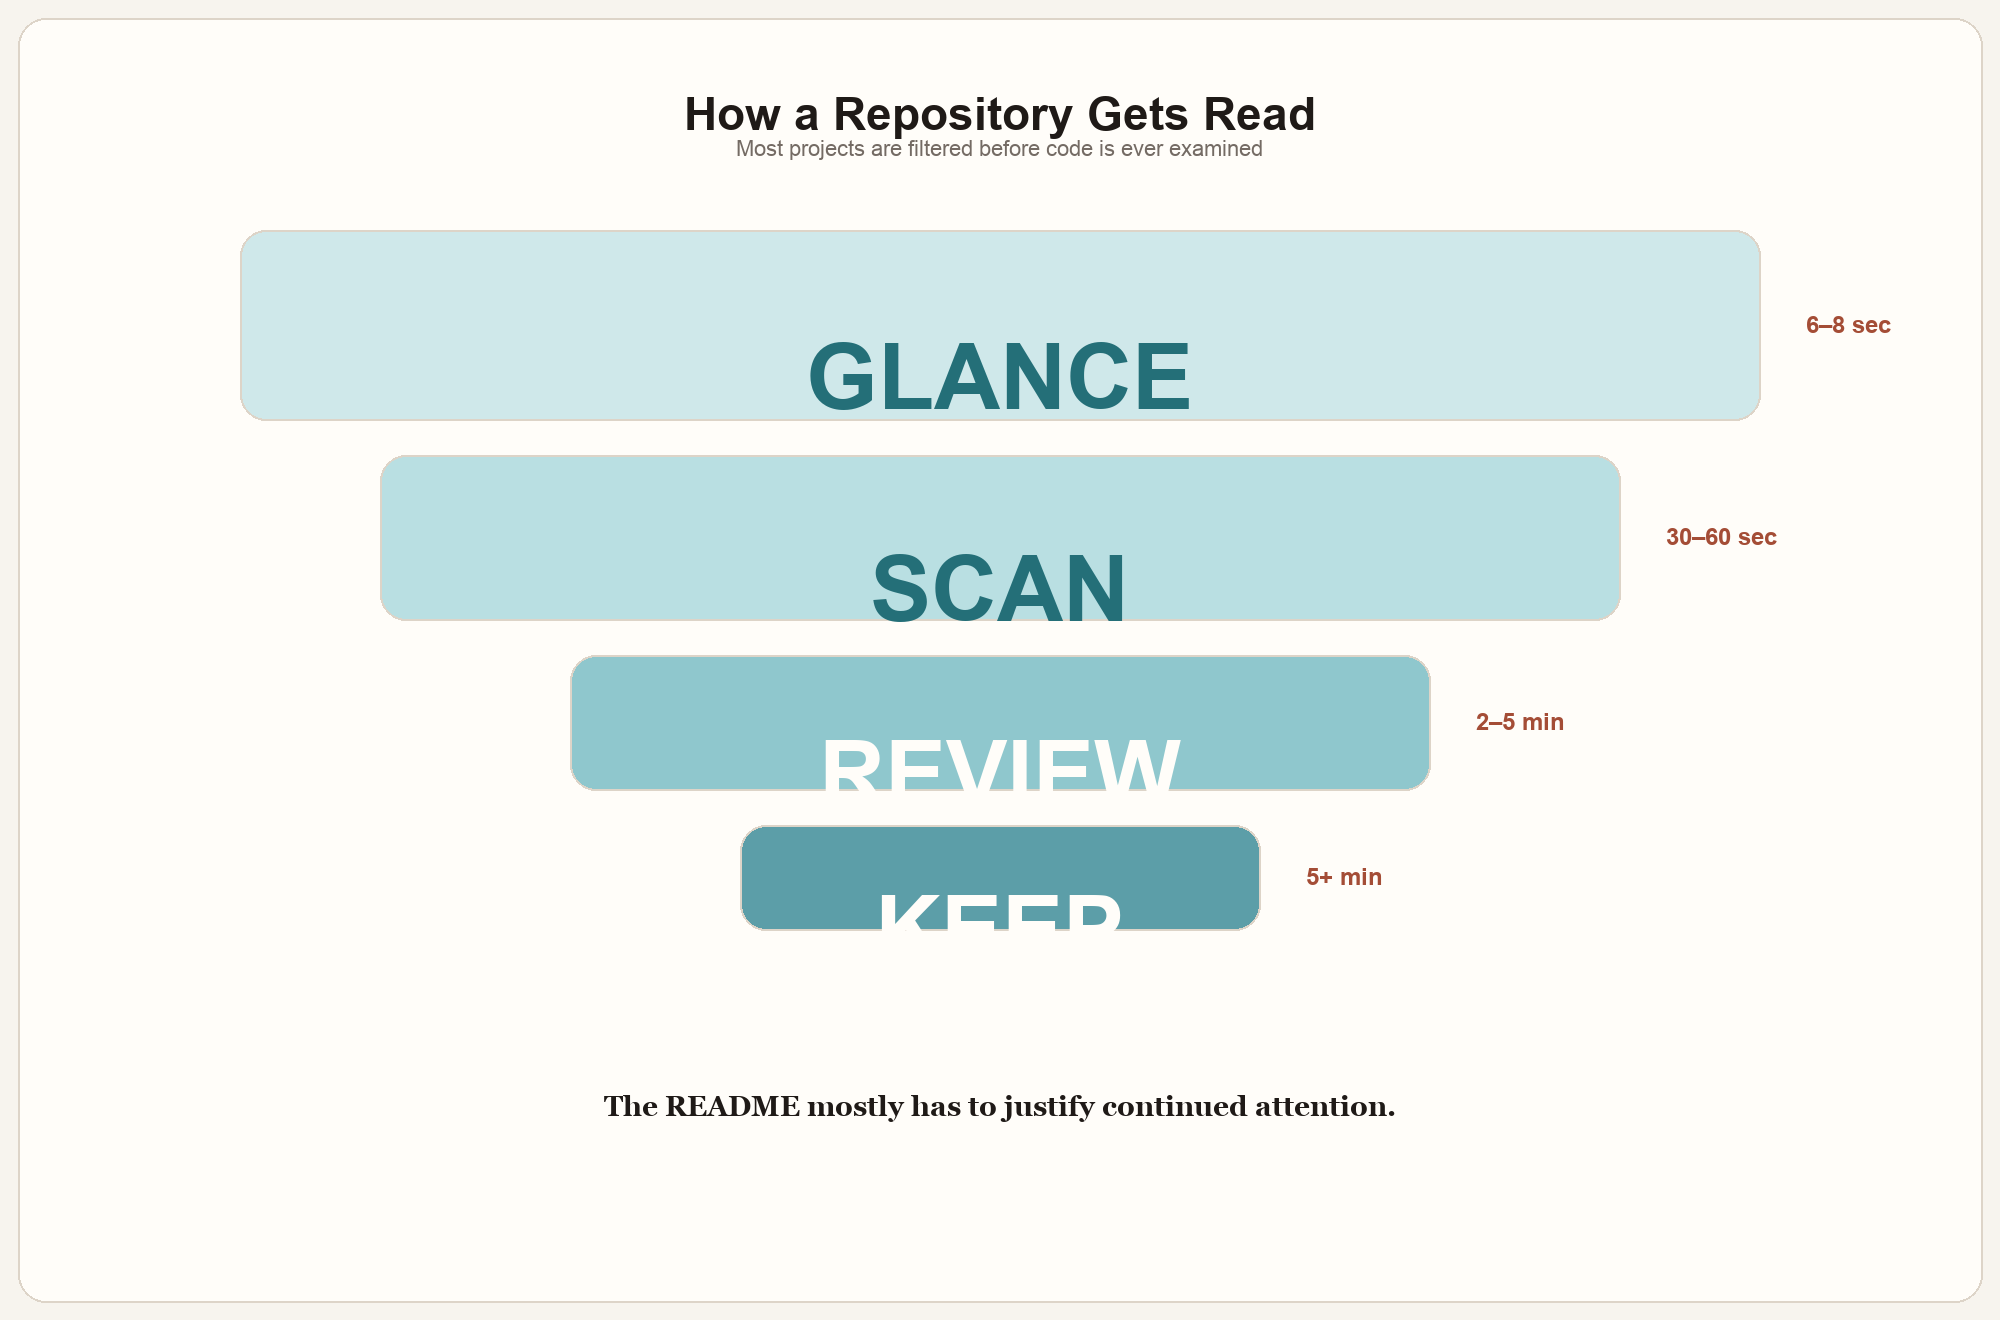
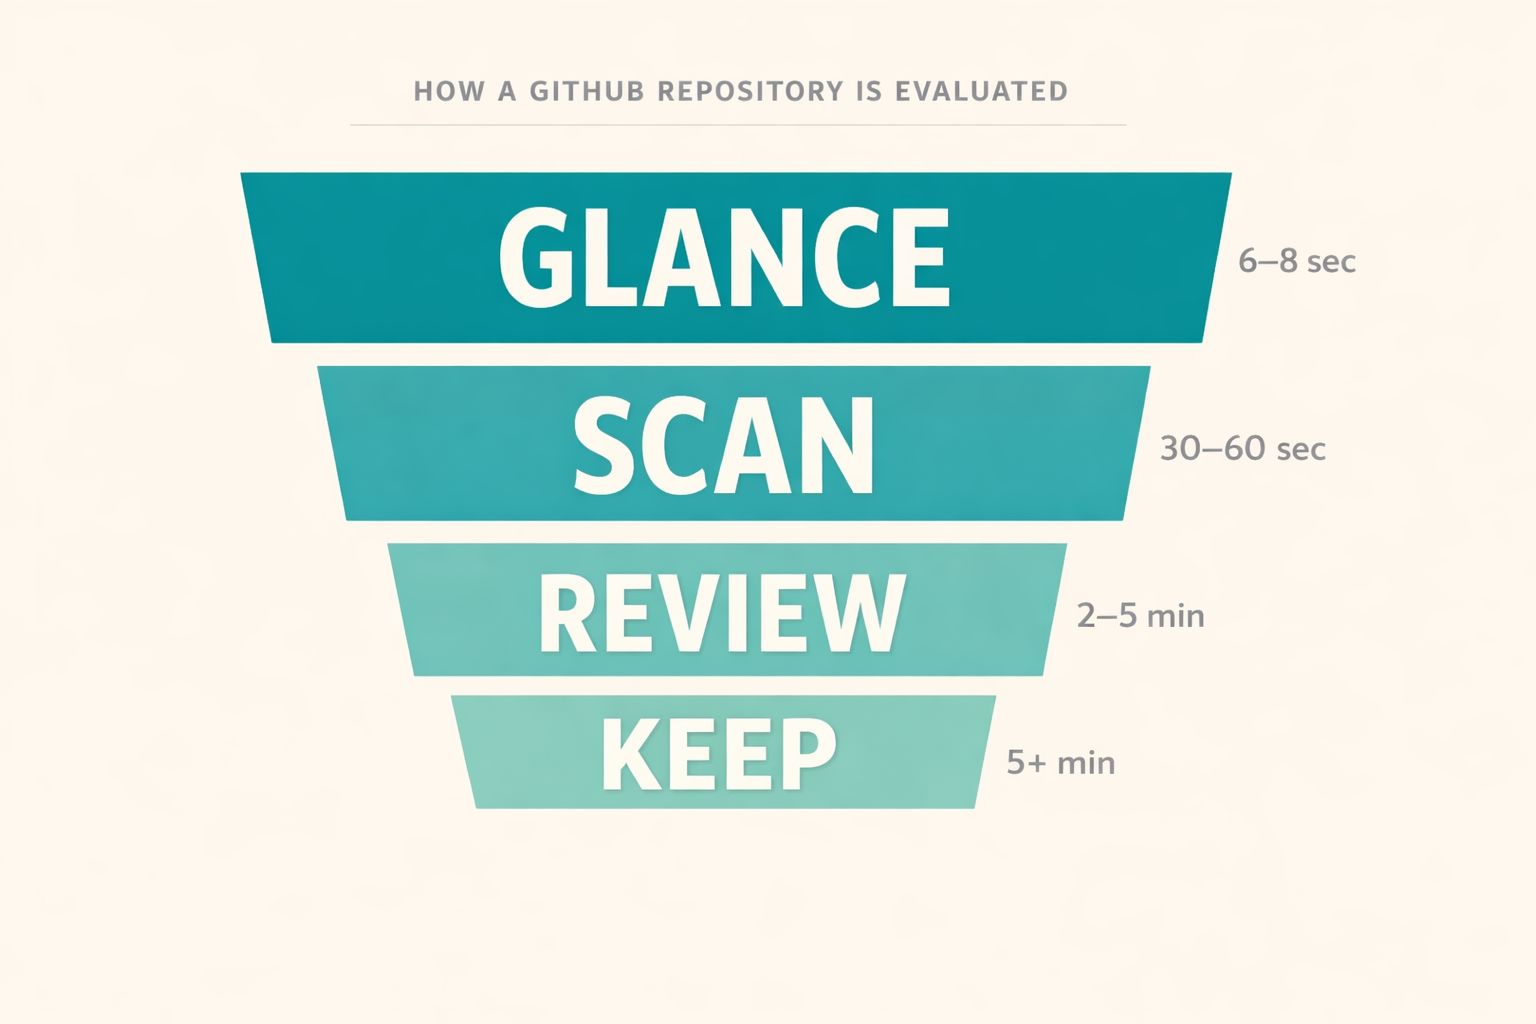
docs: clean readme layout and refresh visuals

diff --git a/README.md b/README.md
@@ -29,18 +29,6 @@
   <a href="./docs/sources.en.md">Sources</a>
 </p>
 
-![How a GitHub repository is evaluated](./assets/evaluation-funnel.png)
-
-## Quick Nav
-
-- [Research report](./docs/research-report.en.md)
-- [Visual index](./docs/index.md)
-- [Video guide](./docs/video-guide.en.md)
-- [README writer skill](./docs/skill-readme-writer.en.md)
-- [Video demo skill](./docs/skill-video-demo.en.md)
-- [README signals](./docs/readme-signals.en.md)
-- [Sources](./docs/sources.en.md)
-
 ## The Landing Page
 
 | Entry point | Use it for | File |
@@ -77,23 +65,29 @@ This repository exists to do that work once and keep the result practical.
 
 These three visuals compress the core argument of the repo:
 
-### 1. Repositories are filtered before code is read
+<table>
+  <tr>
+    <td width="50%">
+      <img src="./assets/evaluation-funnel.png" alt="Evaluation funnel" />
+      <p><strong>Repositories are filtered before code is read.</strong></p>
+      <p>Adapted from JSGuruJobs, HR Dive, and hiring-manager discussions on Reddit. Timings are illustrative.</p>
+    </td>
+    <td width="50%">
+      <img src="./assets/signal-strength.png" alt="Signal strength" />
+      <p><strong>Not every hiring signal carries the same weight.</strong></p>
+      <p>Synthesized from JSGuruJobs, OneNine, and hiring-manager discussions. Signal strength is interpretive, not quantitative.</p>
+    </td>
+  </tr>
+</table>
 
-![Evaluation funnel](./assets/evaluation-funnel.png)
+<p align="center">
+  <img src="./assets/clone-spectrum.png" alt="Clone spectrum" width="100%" />
+</p>
 
-Source: adapted from JSGuruJobs, HR Dive, and hiring-manager discussions on Reddit. Timings are illustrative.
-
-### 2. Not every hiring signal carries the same weight
-
-![Signal strength](./assets/signal-strength.png)
-
-Source: synthesized from JSGuruJobs, OneNine, and hiring-manager discussions. Signal strength is interpretive, not quantitative.
-
-### 3. The real distinction is endpoint vs. transformation
-
-![Clone spectrum](./assets/clone-spectrum.png)
-
-Source: synthesized from portfolio guidance and hiring discussions on clones, expanded projects, and real-user work. This spectrum is conceptual, not a measured scoring model.
+<p>
+  <strong>The real distinction is endpoint vs. transformation.</strong><br />
+  Synthesized from portfolio guidance and hiring discussions on clones, expanded projects, and real-user work. This spectrum is conceptual, not a measured scoring model.
+</p>
 
 ## Also Included
 
